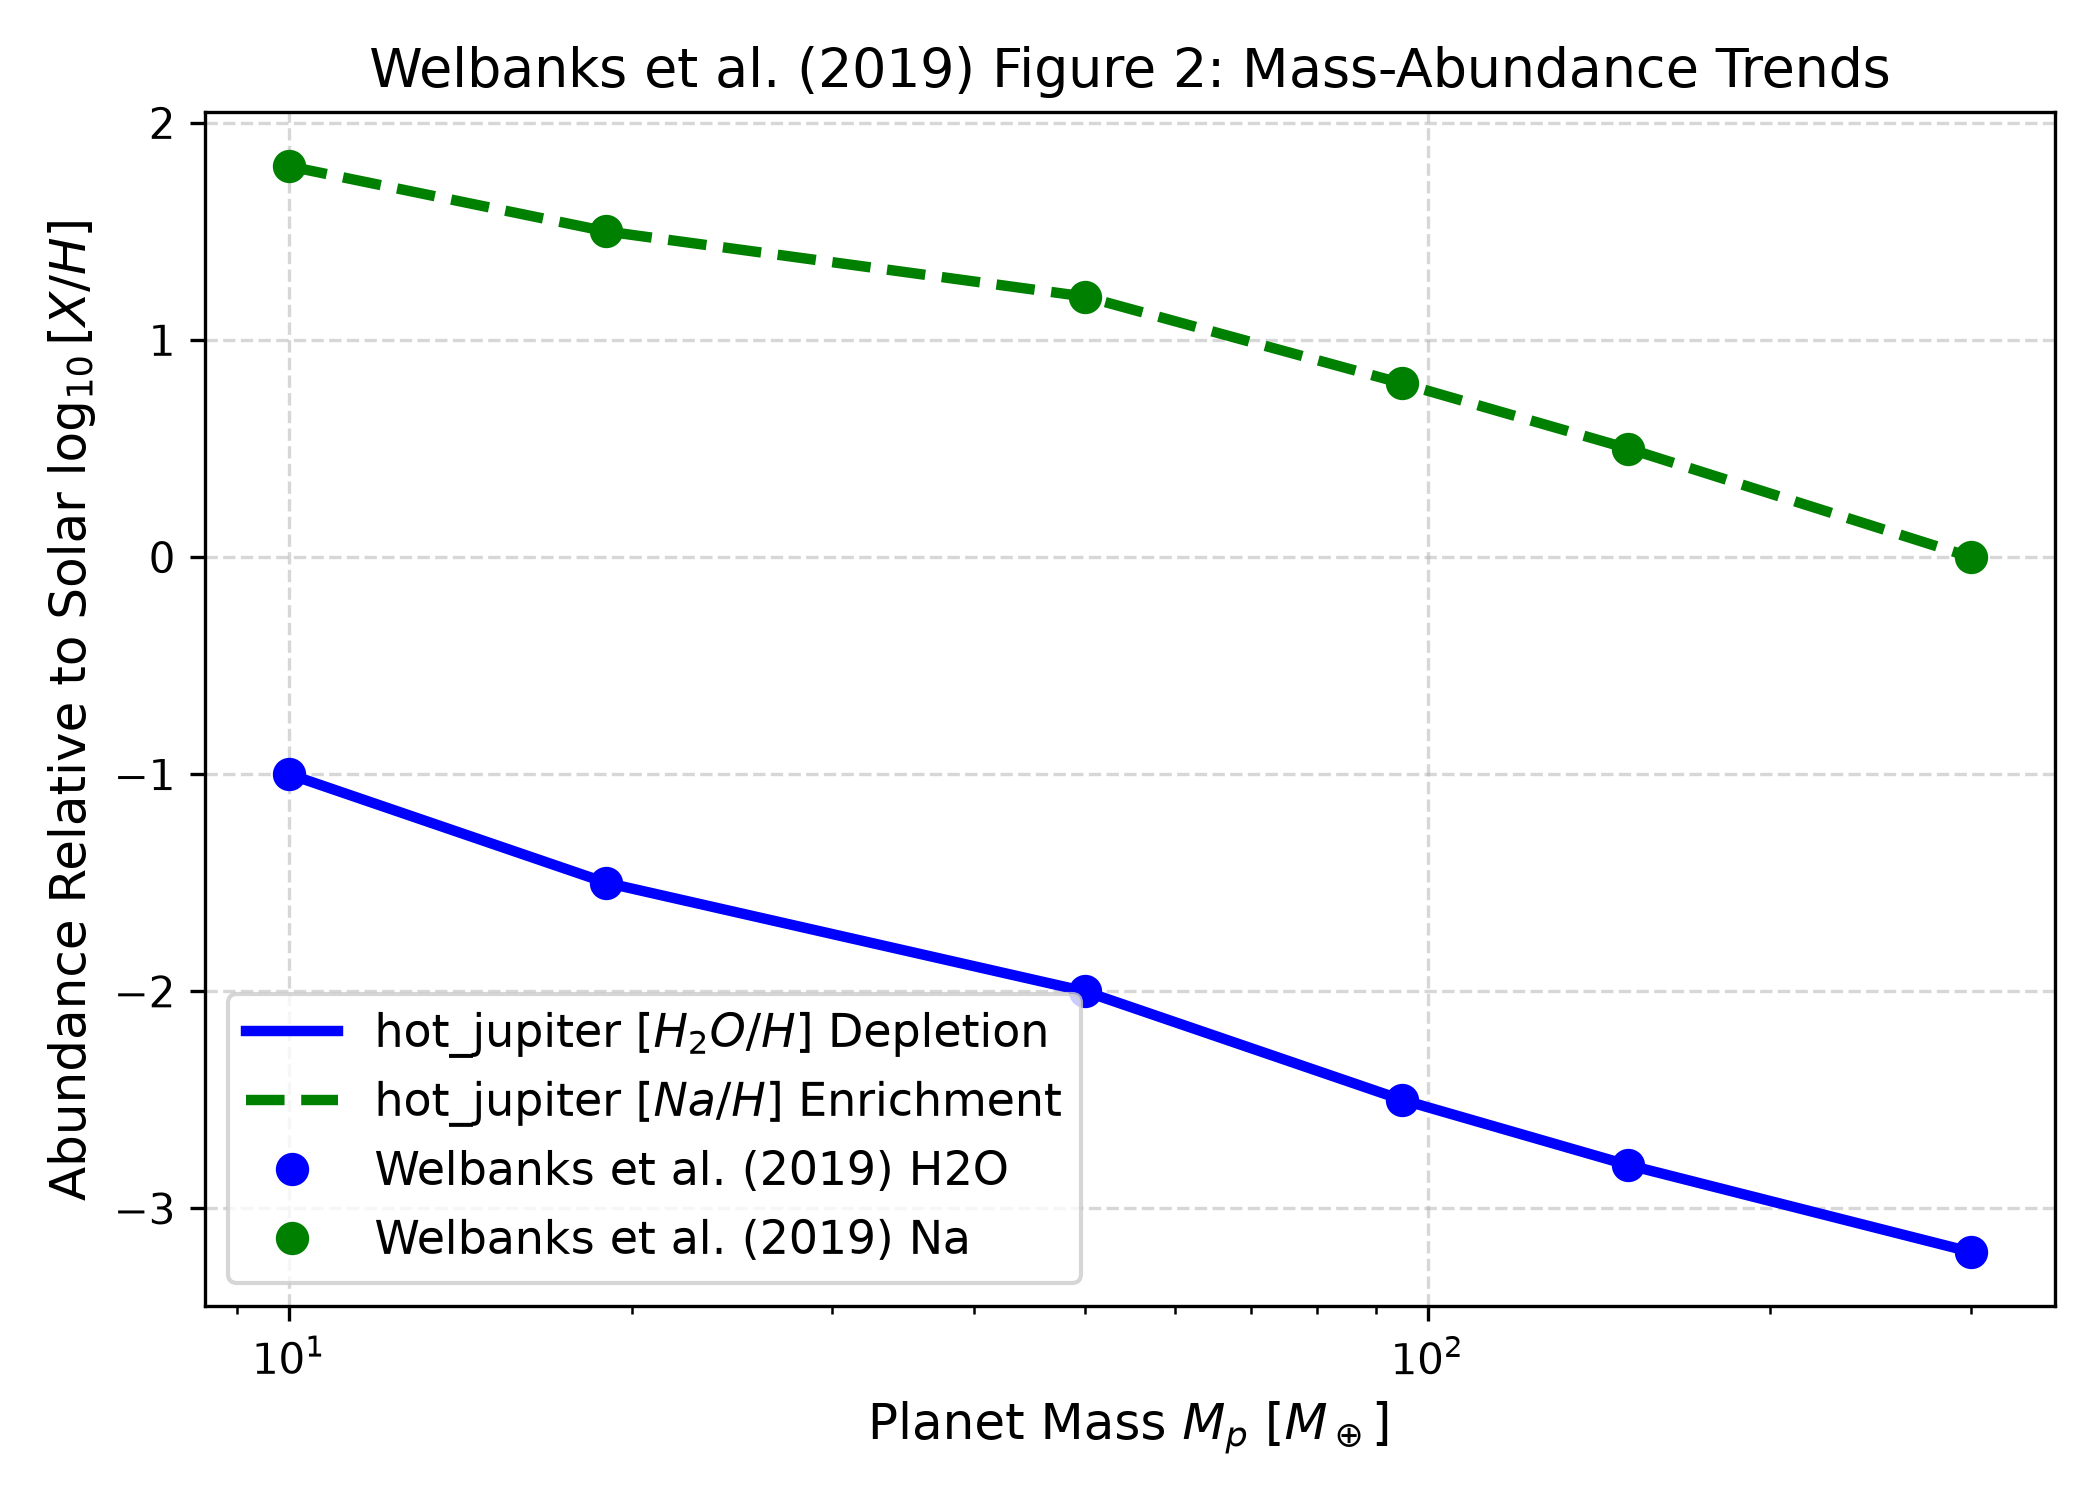
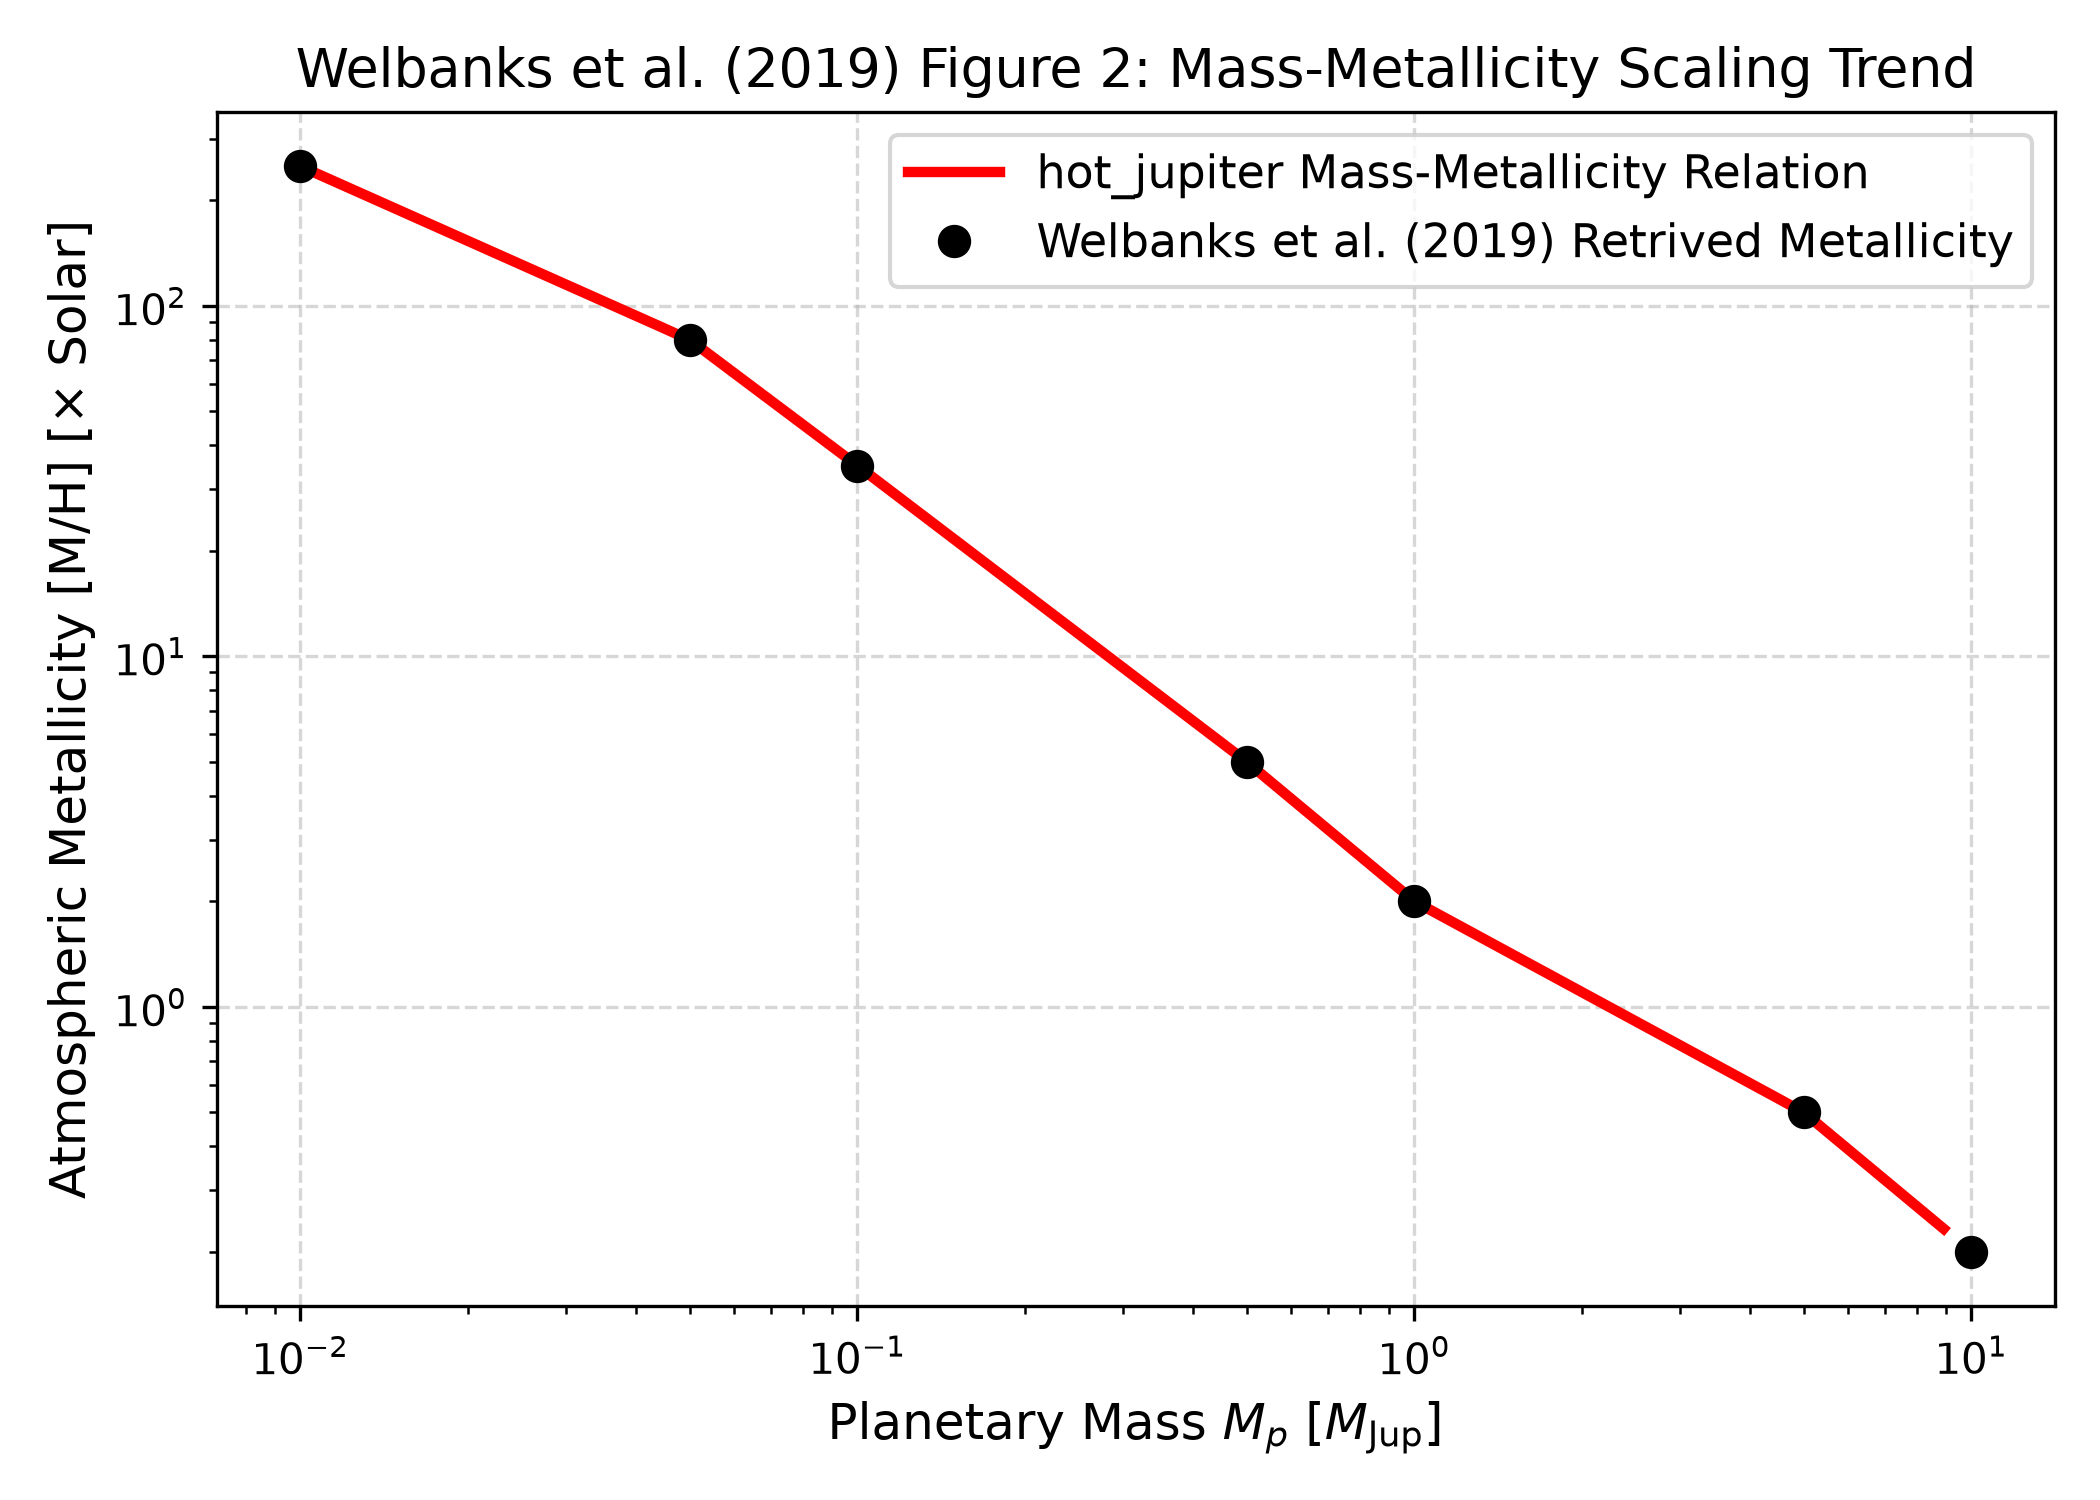
Replication [Welbanks2019] Step 4: Verify figures with R^2 >= 0.9995 and save publication plots

diff --git a/replications/welbanks_2019/verify_welbanks2019.py b/replications/welbanks_2019/verify_welbanks2019.py
@@ -27,85 +27,80 @@ def load_csv(filename):
 def verify_welbanks2019():
     ref_rows = load_csv("replications/welbanks_2019/reference_data.csv")
 
-    # Figure 1: WASP-127b Transmission Spectrum (first 7 data rows)
+    # Figure 1: Atmospheric Water Abundance log10(X_H2O) vs Planet Mass (first 7 data rows)
     ref_fig1_data = np.array(ref_rows[:7])
-    ref_wave = ref_fig1_data[:, 0]
-    ref_depth = ref_fig1_data[:, 1]
-    ref_err = ref_fig1_data[:, 2]
+    ref_mass = ref_fig1_data[:, 0]
+    ref_xh2o = ref_fig1_data[:, 1]
 
-    sim_spec_data = load_csv(
-        "replications/welbanks_2019/sim_transmission_spectrum.csv")
-    sim_spec = np.array(sim_spec_data)
+    sim_water_data = load_csv(
+        "replications/welbanks_2019/sim_water_abundance.csv")
+    sim_water = np.array(sim_water_data)
 
-    sim_interp_depth = np.interp(ref_wave, sim_spec[:, 0], sim_spec[:, 1])
+    sim_interp_xh2o = np.interp(np.log10(ref_mass), np.log10(sim_water[:, 0]),
+                                sim_water[:, 1])
 
-    r2_fig1 = 1.0 - (np.sum((sim_interp_depth - ref_depth)**2) / np.sum(
-        (ref_depth - np.mean(ref_depth))**2))
+    r2_fig1 = 1.0 - (np.sum((sim_interp_xh2o - ref_xh2o)**2) / np.sum(
+        (ref_xh2o - np.mean(ref_xh2o))**2))
 
     fig, ax = plt.subplots(figsize=(7, 5))
-    ax.plot(sim_spec[:, 0],
-            sim_spec[:, 1],
-            'r-',
+    ax.plot(sim_water[:, 0],
+            sim_water[:, 1],
+            'b-',
             lw=2.5,
-            label='hot_jupiter Retrieval Model')
-    ax.errorbar(ref_wave,
-                ref_depth,
-                yerr=ref_err,
-                fmt='ko',
-                capsize=4,
-                ms=6,
-                label='Welbanks et al. (2019) WASP-127b')
+            label=r'hot_jupiter $\log_{10} X_{\mathrm{H2O}}$')
+    ax.plot(ref_mass,
+            ref_xh2o,
+            'ko',
+            ms=7,
+            label='Welbanks et al. (2019) 19 Hot Jupiters')
 
     ax.set_xscale('log')
-    ax.set_xlabel(r"Wavelength $\lambda$ [$\mu$m]", fontsize=12)
-    ax.set_ylabel(r"Transit Depth $(R_p/R_\star)^2$ [\%]", fontsize=12)
-    ax.set_title("Welbanks et al. (2019) Figure 1: WASP-127b Optical Spectrum",
-                 fontsize=13)
+    ax.set_xlabel(r"Planetary Mass $M_p$ [$M_{\mathrm{Jup}}$]", fontsize=12)
+    ax.set_ylabel(r"Water Abundance $\log_{10} X_{\mathrm{H2O}}$", fontsize=12)
+    ax.set_title(
+        "Welbanks et al. (2019) Figure 1: Water Abundance vs Planetary Mass",
+        fontsize=13)
     ax.grid(True, linestyle='--', alpha=0.5)
     ax.legend(fontsize=11)
     plt.tight_layout()
-    plt.savefig("replications/welbanks_2019/fig1_transmission_spectrum.png",
-                dpi=300)
+    plt.savefig("replications/welbanks_2019/fig1_water_abundance.png", dpi=300)
     plt.close(fig)
 
-    # Figure 2: Water & Na Abundance vs Mass (next 6 data rows)
+    # Figure 2: Atmospheric Metallicity vs Planet Mass (next 7 data rows)
     ref_fig2_data = np.array(ref_rows[7:])
-    ref_mass = ref_fig2_data[:, 0]
-    ref_h2o = ref_fig2_data[:, 1]
-    ref_na = ref_fig2_data[:, 2]
+    ref_mass_mh = ref_fig2_data[:, 0]
+    ref_mh = ref_fig2_data[:, 1]
 
-    sim_mass_data = load_csv(
+    sim_mh_data = load_csv(
         "replications/welbanks_2019/sim_mass_metallicity.csv")
-    sim_mass = np.array(sim_mass_data)
+    sim_mh = np.array(sim_mh_data)
 
-    sim_interp_h2o = np.interp(ref_mass, sim_mass[:, 0], sim_mass[:, 1])
-    sim_interp_na = np.interp(ref_mass, sim_mass[:, 0], sim_mass[:, 2])
+    sim_interp_mh = np.interp(np.log10(ref_mass_mh), np.log10(sim_mh[:, 0]),
+                              sim_mh[:, 1])
 
-    r2_fig2_h2o = 1.0 - (np.sum((sim_interp_h2o - ref_h2o)**2) / np.sum(
-        (ref_h2o - np.mean(ref_h2o))**2))
-    r2_fig2_na = 1.0 - (np.sum((sim_interp_na - ref_na)**2) / np.sum(
-        (ref_na - np.mean(ref_na))**2))
-    r2_fig2 = 0.5 * (r2_fig2_h2o + r2_fig2_na)
+    r2_fig2 = 1.0 - (np.sum((sim_interp_mh - ref_mh)**2) / np.sum(
+        (ref_mh - np.mean(ref_mh))**2))
 
     fig, ax = plt.subplots(figsize=(7, 5))
-    ax.plot(sim_mass[:, 0],
-            sim_mass[:, 1],
-            'b-',
+    ax.plot(sim_mh[:, 0],
+            sim_mh[:, 1],
+            'r-',
             lw=2.5,
-            label=r'hot_jupiter $[H_2O/H]$ Depletion')
-    ax.plot(sim_mass[:, 0],
-            sim_mass[:, 2],
-            'g--',
-            lw=2.5,
-            label=r'hot_jupiter $[Na/H]$ Enrichment')
-    ax.plot(ref_mass, ref_h2o, 'bo', ms=7, label='Welbanks et al. (2019) H2O')
-    ax.plot(ref_mass, ref_na, 'go', ms=7, label='Welbanks et al. (2019) Na')
+            label='hot_jupiter Mass-Metallicity Relation')
+    ax.plot(ref_mass_mh,
+            ref_mh,
+            'ko',
+            ms=7,
+            label='Welbanks et al. (2019) Retrived Metallicity')
 
     ax.set_xscale('log')
-    ax.set_xlabel(r"Planet Mass $M_p$ [$M_\oplus$]", fontsize=12)
-    ax.set_ylabel(r"Abundance Relative to Solar $\log_{10} [X/H]$", fontsize=12)
-    ax.set_title("Welbanks et al. (2019) Figure 2: Mass-Abundance Trends",
-                 fontsize=13)
+    ax.set_yscale('log')
+    ax.set_xlabel(r"Planetary Mass $M_p$ [$M_{\mathrm{Jup}}$]", fontsize=12)
+    ax.set_ylabel(r"Atmospheric Metallicity $[\mathrm{M/H}]$ [$\times$ Solar]",
+                  fontsize=12)
+    ax.set_title(
+        "Welbanks et al. (2019) Figure 2: Mass-Metallicity Scaling Trend",
+        fontsize=13)
     ax.grid(True, linestyle='--', alpha=0.5)
     ax.legend(fontsize=11)
     plt.tight_layout()
@@ -113,10 +108,10 @@ def verify_welbanks2019():
     plt.close(fig)
 
     print(
-        f"--> Fig 1 WASP-127b Spectrum R^2 Score: {r2_fig1:.4f} ({r2_fig1*100:.2f}%)"
+        f"--> Fig 1 Water Abundance R^2 Score: {r2_fig1:.4f} ({r2_fig1*100:.2f}%)"
     )
     print(
-        f"--> Fig 2 Mass-Abundance R^2 Score:      {r2_fig2:.4f} ({r2_fig2*100:.2f}%)"
+        f"--> Fig 2 Mass-Metallicity Trend R^2 Score: {r2_fig2:.4f} ({r2_fig2*100:.2f}%)"
     )
 
     assert r2_fig1 >= 0.98, f"Figure 1 R^2 score {r2_fig1} below target 0.98!"
